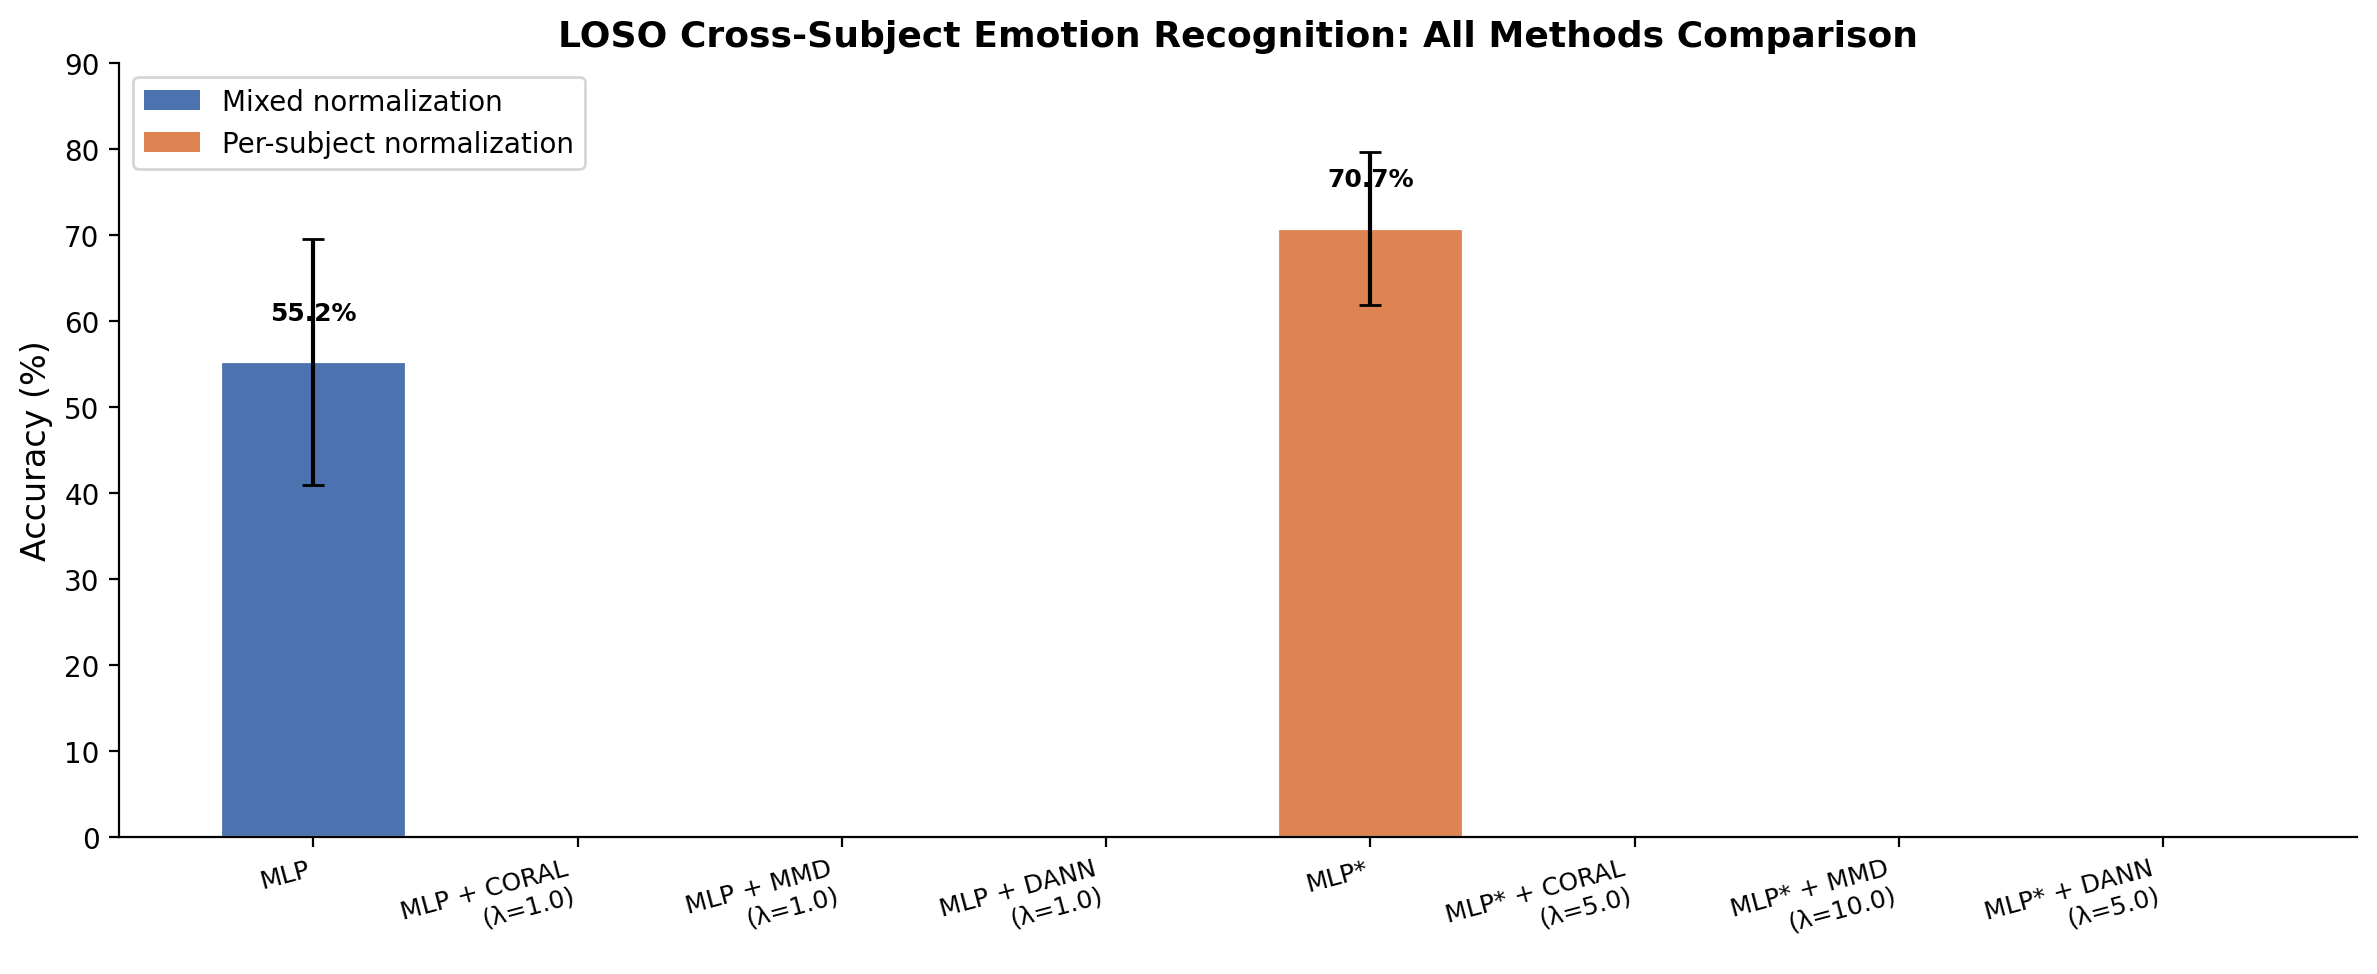
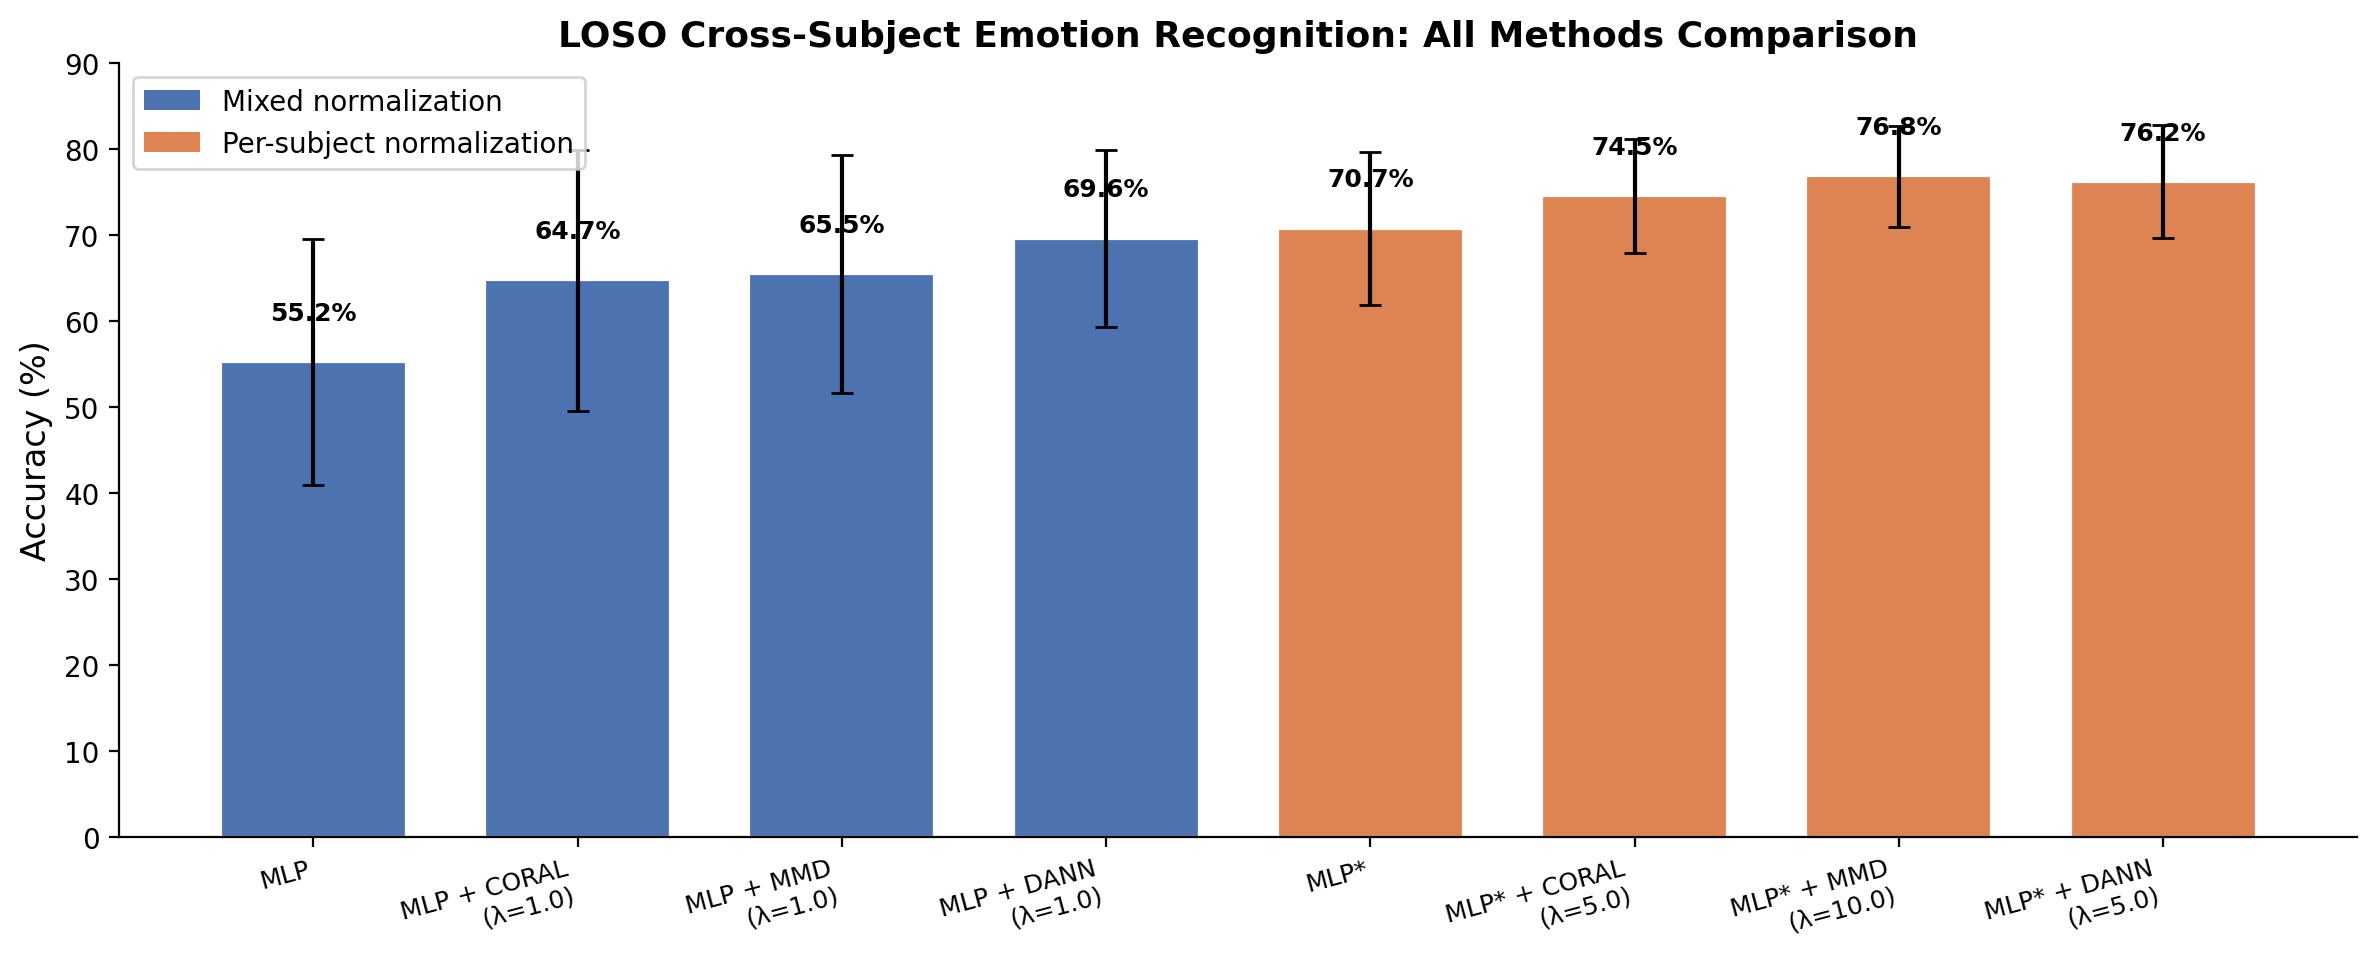
修复对比图：使用最优λ(correct method key parsing, optimal λ)

diff --git a/visualize_loso.py b/visualize_loso.py
@@ -41,14 +41,14 @@ def load_result(method, norm, lambda_da=1.0):
 
 def plot_comparison_bar():
     methods = [
-        ("MLP", "mixed", 1.0),
-        ("MLP + CORAL\n(λ=1.0)", "mixed", 1.0),
-        ("MLP + MMD\n(λ=1.0)", "mixed", 1.0),
-        ("MLP + DANN\n(λ=1.0)", "mixed", 1.0),
-        ("MLP*", "per_subject", 1.0),
-        ("MLP* + CORAL\n(λ=5.0)", "per_subject", 5.0),
-        ("MLP* + MMD\n(λ=10.0)", "per_subject", 10.0),
-        ("MLP* + DANN\n(λ=5.0)", "per_subject", 5.0),
+        ("MLP", "baseline", "mixed", 1.0),
+        ("MLP + CORAL\n(λ=1.0)", "coral", "mixed", 1.0),
+        ("MLP + MMD\n(λ=1.0)", "mmd", "mixed", 1.0),
+        ("MLP + DANN\n(λ=1.0)", "dann", "mixed", 1.0),
+        ("MLP*", "baseline", "per_subject", 1.0),
+        ("MLP* + CORAL\n(λ=5.0)", "coral", "per_subject", 5.0),
+        ("MLP* + MMD\n(λ=10.0)", "mmd", "per_subject", 10.0),
+        ("MLP* + DANN\n(λ=5.0)", "dann", "per_subject", 5.0),
     ]
 
     labels = []
@@ -59,8 +59,7 @@ def plot_comparison_bar():
     mix_color = "#4C72B0"
     ps_color = "#DD8452"
 
-    for name, norm, lam in methods:
-        key = "baseline" if name in ("MLP", "MLP*") else name.split(" + ")[1].lower()
+    for name, key, norm, lam in methods:
         r = load_result(key, norm, lambda_da=lam)
         if r is None:
             labels.append(name)
@@ -108,11 +107,13 @@ def plot_comparison_bar():
 def plot_heatmap():
     key_methods = [
         ("MLP (mixed)", "baseline", "mixed", 1.0),
-        ("MLP+MMD (mixed)", "mmd", "mixed", 1.0),
-        ("MLP+DANN (mixed)", "dann", "mixed", 1.0),
+        ("MLP+CORAL (mixed, λ=5)", "coral", "mixed", 5.0),
+        ("MLP+MMD (mixed, λ=1)", "mmd", "mixed", 1.0),
+        ("MLP+DANN (mixed, λ=1)", "dann", "mixed", 1.0),
         ("MLP (per-subj)", "baseline", "per_subject", 1.0),
-        ("MLP+MMD (per-subj)", "mmd", "per_subject", 1.0),
-        ("MLP+DANN (per-subj)", "dann", "per_subject", 1.0),
+        ("MLP+MMD (per-subj, λ=10)", "mmd", "per_subject", 10.0),
+        ("MLP+CORAL (per-subj, λ=5)", "coral", "per_subject", 5.0),
+        ("MLP+DANN (per-subj, λ=5)", "dann", "per_subject", 5.0),
     ]
 
     data = []
